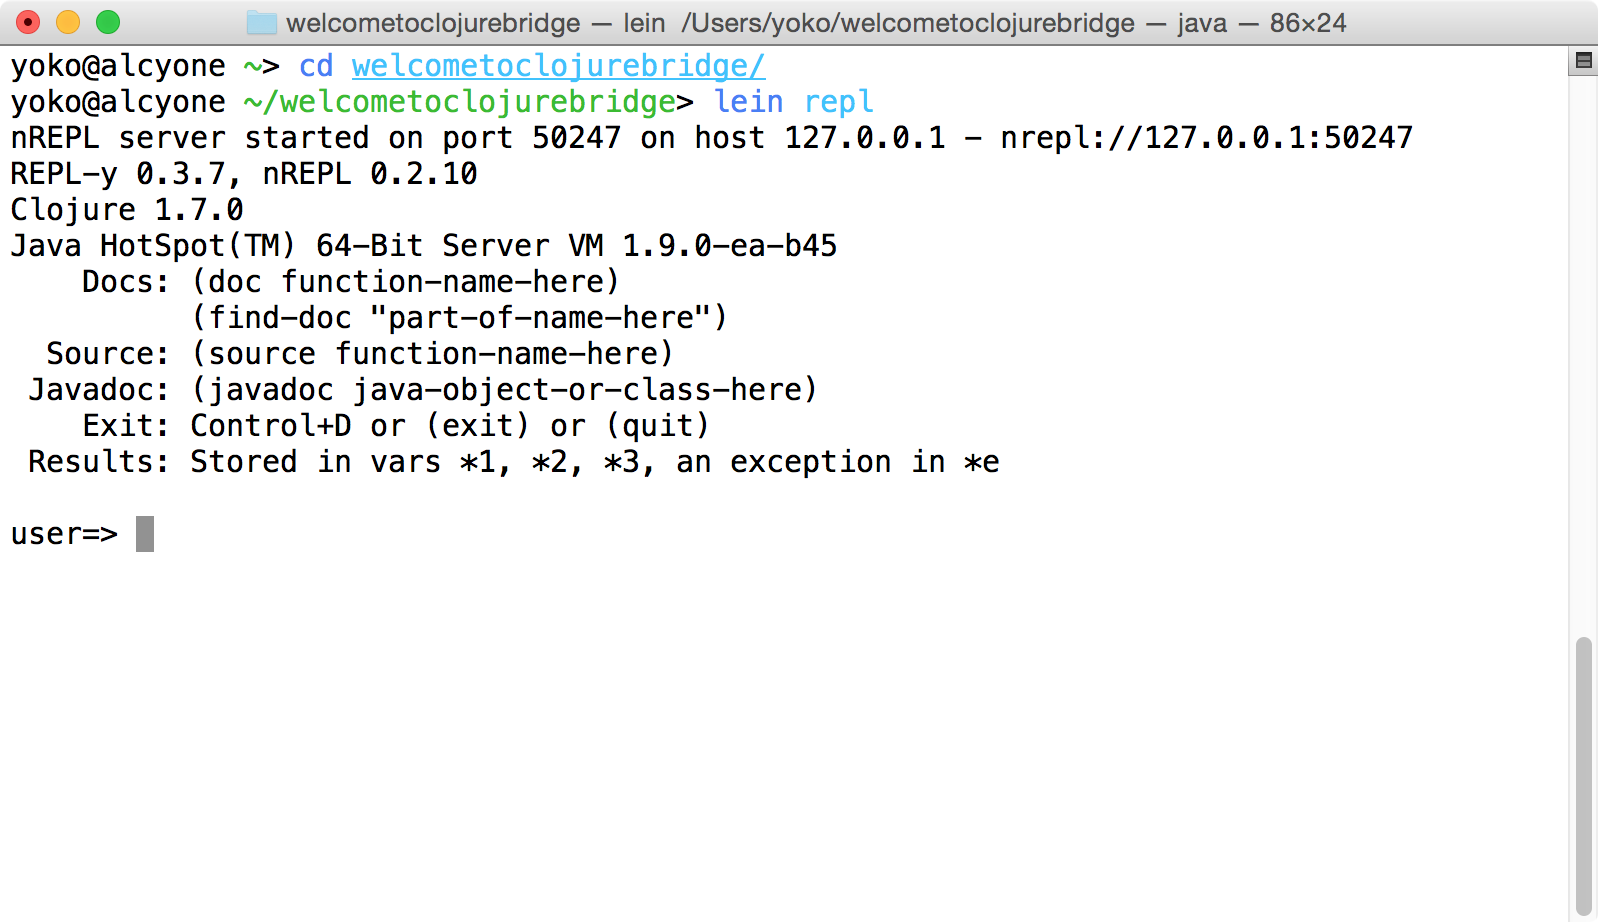
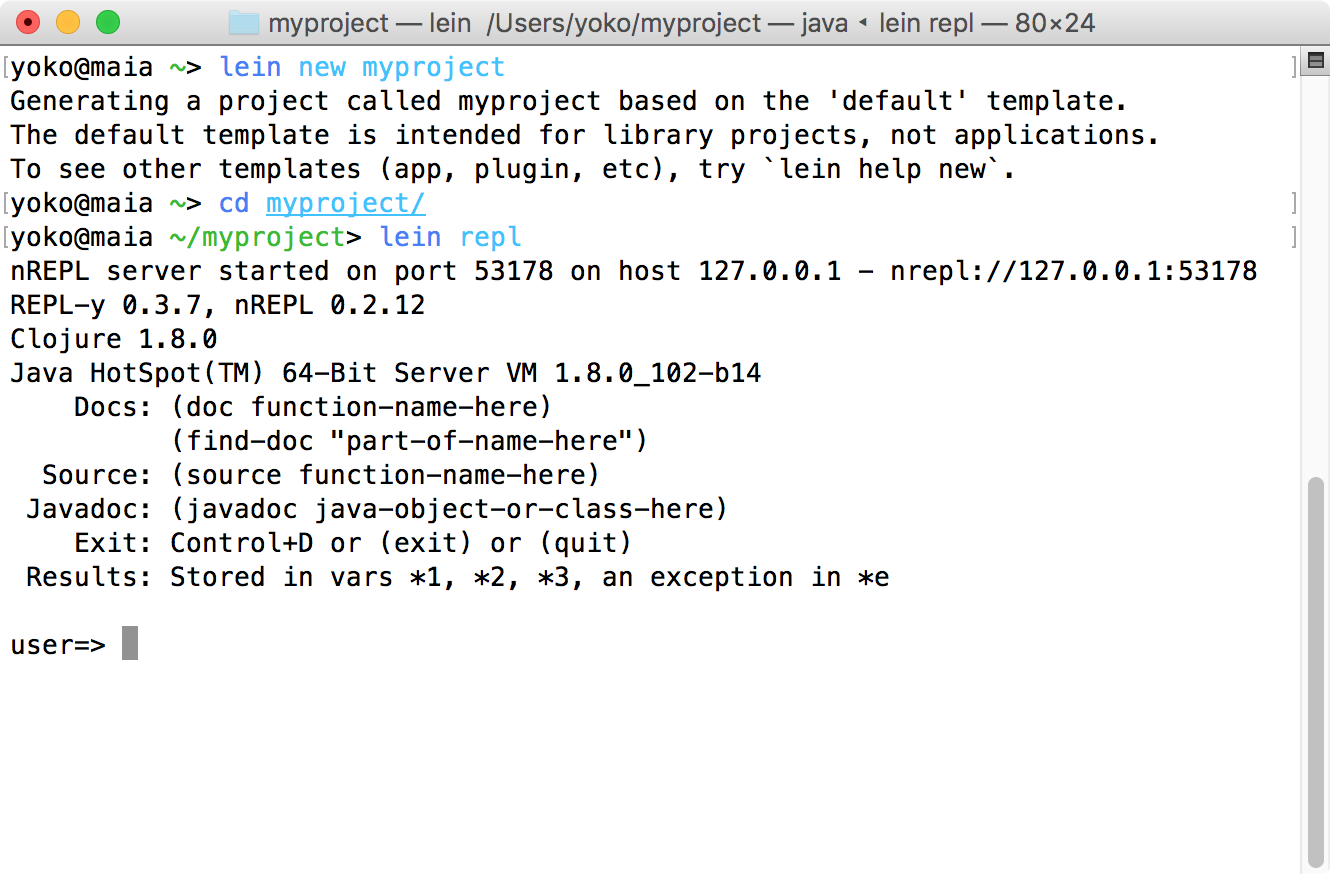
Added project creation by lein for later use

diff --git a/outline/setup_osx.md b/outline/setup_osx.md
@@ -118,6 +118,38 @@ java -jar Nightcode-2.0.3.jar
 
 You have set up Java, Leiningen, Nightcode, and Git on your computer--all the tools you will need for this workshop. Before starting, we need to test them out.
 
+
+#### Testing Leiningen
+
+Go to your terminal and run the following command:
+
+```bash
+lein new myproject
+```
+
+This will create a new project, `myproject`, which has files to form a Clojure project.
+Normally, Clojure code exists within such Clojure project.
+Next, run following commands:
+
+```bash
+cd myproject
+lein repl
+```
+
+This may take long to start up for the first time.
+Leiningen downloads libraries it needs to run Clojure.
+When Leiningen starts, you'll see `user=>` prompt on your terminal.
+
+![Testing lein repl](img/os_x/testing-lein-repl.png)
+
+Now, you are ready to use __REPL__, which we learn about soon.
+It's a special terminal for Clojure.
+
+At the REPL prompt, type `(+ 1 1)` and press Return. Did you get the answer `2` back?
+
+You will learn more about that in the course. For now, press the Control button and D button on your keyboard together (abbreviated as Ctrl+D). This should take you out of the Clojure REPL and back to your normal terminal prompt. Then, the terminal will show you the following message: `user=> Bye for now!`
+
+
 #### Cloning out github repository
 
 Go to your terminal and run the following command:
@@ -146,11 +178,10 @@ This will take you to the directory with the source code. After that completes, 
 lein repl
 ```
 
-This could take a long time, and will download many other pieces of code apps rely on. You should see lines that start with `Retrieving ...` on your screen. When it finishes, your terminal should look like the following:
 
-![Testing lein repl](img/os_x/testing-lein-repl.png)
 
-This is starting a REPL, which we will learn about soon. It's a special terminal for Clojure. At the REPL prompt, type `(+ 1 1)` and press Return. Did you get the answer `2` back? You will learn more about that in the course. For now, press the Control button and D button on your keyboard together (abbreviated as Ctrl+D). This should take you out of the Clojure REPL and back to your normal terminal prompt. Then, the terminal will show you the following message: `user=> Bye for now!`
+
+This is starting a REPL, which we will learn about soon. 
 
 
 #### Testing Nightcode
@@ -168,7 +199,7 @@ At the bottom right of the screen, type `(+ 1 1)` into the window. It should loo
 If you see the result, 2, that worked, great!
 
 
-#### Testing apps
+#### Testing apps - welcome to clojurebridge
 
 Now we will open and run the sample Clojure apps in Nightcode.
 On the top left corner, click "Import" then find the directory,
@@ -184,7 +215,8 @@ This is a Clojure program.
 
 The next step is to run the code shown in the window.
 Click "Run with REPL" on the bottom.
-It may take a while.
+This could take a long time, and will download many other pieces of code the app relies on.
+You should see lines that start with `Retrieving ...` on your screen.
 Eventually, REPL will start and show a prompt, `user=>`.
 Once, you see the prompt, click "Reload" button.
 
@@ -198,6 +230,7 @@ You should see a fun welcome message.
 
 ![Testing apps - welcome](img/testing-welcomeclojurebridge.png)
 
+#### Testing apps - turtle walk
 
 Let's try one more sample.
 In the directory tree on the left, click on
